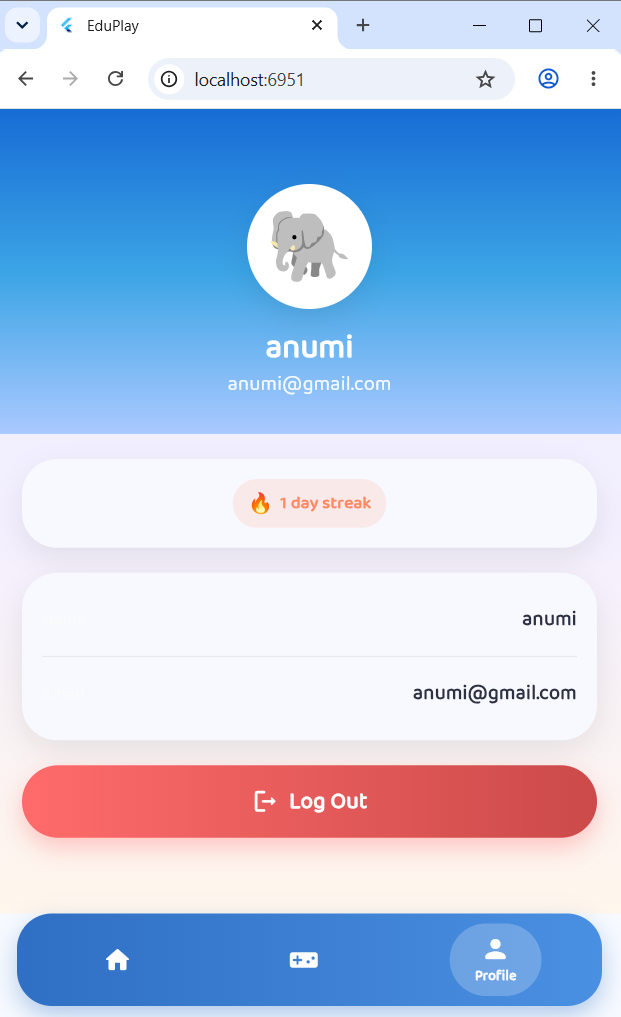
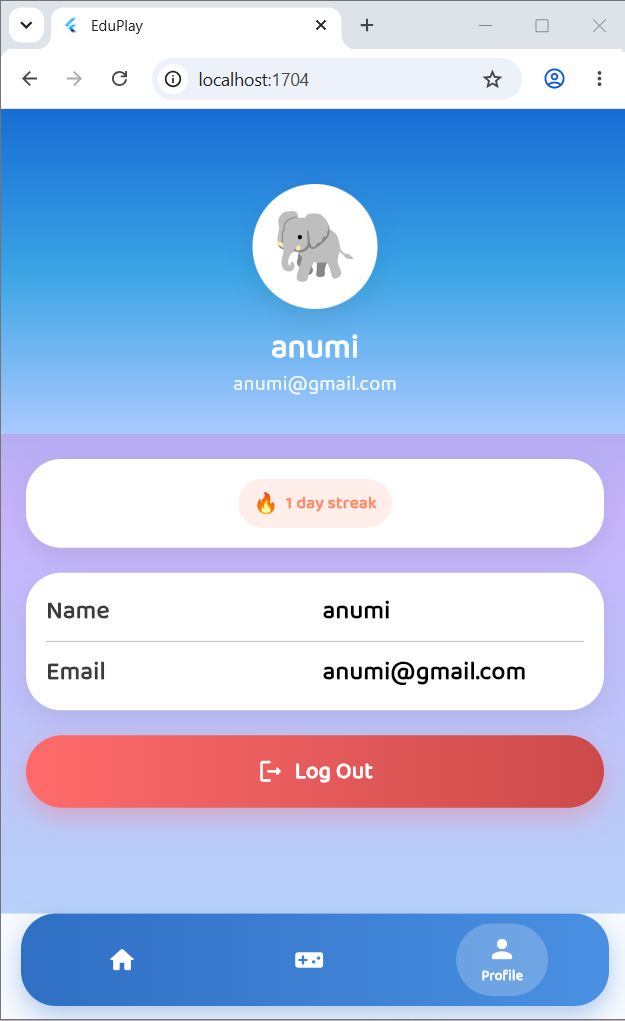
updated

diff --git a/lib/screens/profile/profile_screen.dart b/lib/screens/profile/profile_screen.dart
@@ -63,14 +63,71 @@ class ProfileScreen extends StatelessWidget {
                       ),
                     ),
                     const SizedBox(height: 20),
+                    // SoftCard(
+                    //   child: Column(
+                    //     children: [
+                    //       _InfoRow(label: 'Name', value: app.name ?? '-'),
+                    //       _InfoRow(
+                    //           label: 'Email',
+                    //           value: app.email ?? '-',
+                    //           isLast: true),
+                    //     ],
+                    //   ),
+                    // ),
                     SoftCard(
                       child: Column(
                         children: [
-                          _InfoRow(label: 'Name', value: app.name ?? '-'),
-                          _InfoRow(
-                              label: 'Email',
-                              value: app.email ?? '-',
-                              isLast: true),
+                          Row(
+                            children: [
+                              const Expanded(
+                                child: Text(
+                                  'Name',
+                                  style: TextStyle(
+                                    fontSize: 20,
+                                    fontWeight: FontWeight.w600,
+                                    color: Color.fromARGB(255, 61, 59, 59),
+                                  ),
+                                ),
+                              ),
+                              const SizedBox(width: 12),
+                              Expanded(
+                                child: Text(
+                                  app.name ?? '-',
+                                  style: const TextStyle(
+                                    fontSize: 20,
+                                    fontWeight: FontWeight.bold,
+                                    color: Colors.black,
+                                  ),
+                                ),
+                              ),
+                            ],
+                          ),
+                          const Divider(height: 20),
+                          Row(
+                            children: [
+                              const Expanded(
+                                child: Text(
+                                  'Email',
+                                  style: TextStyle(
+                                    fontSize: 20,
+                                    fontWeight: FontWeight.w600,
+                                    color: Color.fromARGB(255, 61, 59, 59),
+                                  ),
+                                ),
+                              ),
+                              const SizedBox(width: 12),
+                              Expanded(
+                                child: Text(
+                                  app.email ?? '-',
+                                  style: const TextStyle(
+                                    fontSize: 20,
+                                    fontWeight: FontWeight.bold,
+                                    color: Colors.black,
+                                  ),
+                                ),
+                              ),
+                            ],
+                          ),
                         ],
                       ),
                     ),

diff --git a/lib/widgets/common_widgets.dart b/lib/widgets/common_widgets.dart
@@ -286,19 +286,23 @@ class SoftCard extends StatelessWidget {
   final Widget child;
   final EdgeInsetsGeometry padding;
   final Color? color;
+  final Color? labelColor;
 
-  const SoftCard(
-      {super.key,
-      required this.child,
-      this.padding = const EdgeInsets.all(16),
-      this.color});
+  const SoftCard({
+    super.key,
+    required this.child,
+    this.padding = const EdgeInsets.all(16),
+    this.color,
+    this.labelColor,
+  });
 
   @override
   Widget build(BuildContext context) {
     return Container(
       padding: padding,
       decoration: BoxDecoration(
-          color: color ?? Theme.of(context).cardColor,
+          //: color ?? Theme.of(context).cardColor,
+          color: color ?? const Color.fromARGB(255, 255, 255, 255),
           borderRadius: BorderRadius.circular(AppRadius.lg),
           boxShadow: AppShadows.soft),
       child: child,